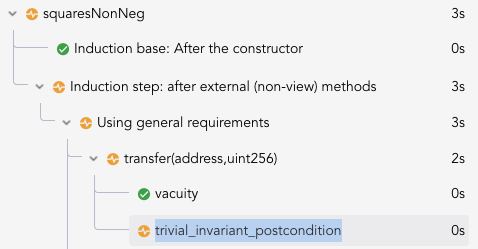
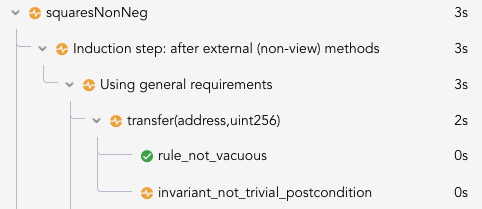
non trivial invariant update

diff --git a/docs/prover/checking/sanity.md b/docs/prover/checking/sanity.md
@@ -144,7 +144,7 @@ The rule version is more efficient because it can do a single check in an
 arbitrary state rather than separately checking states after arbitrary method
 invocations.
 
-The trivial invariant check will add a sub-rule for each method under the induction step of invariants named `trivial_invariant_postcondition`.  For example, the rule report for the above `squaresNonNeg` invariant will look like this:
+The trivial invariant check will add a sub-rule for each method under the induction step of invariants named `invariant_not_trivial_postcondition`.  For example, the rule report for the above `squaresNonNeg` invariant will look like this:
 
 ![Screenshot of trivial invariant subrule](trivial_invariant_subrule.png)
 
